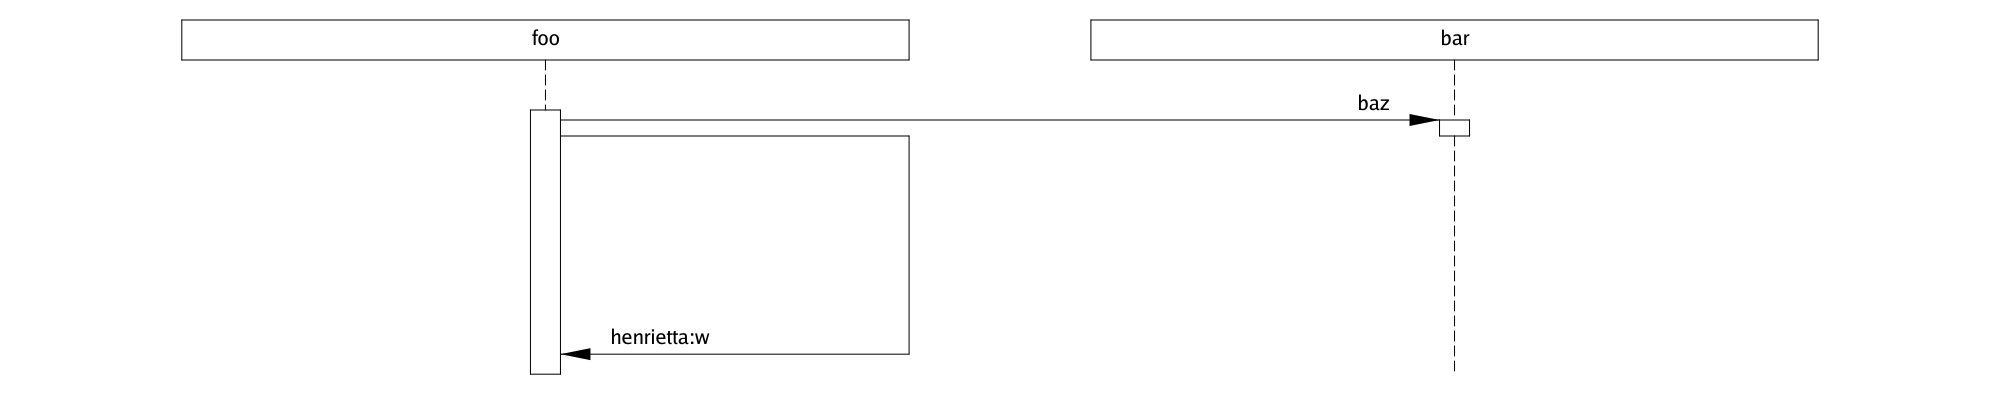
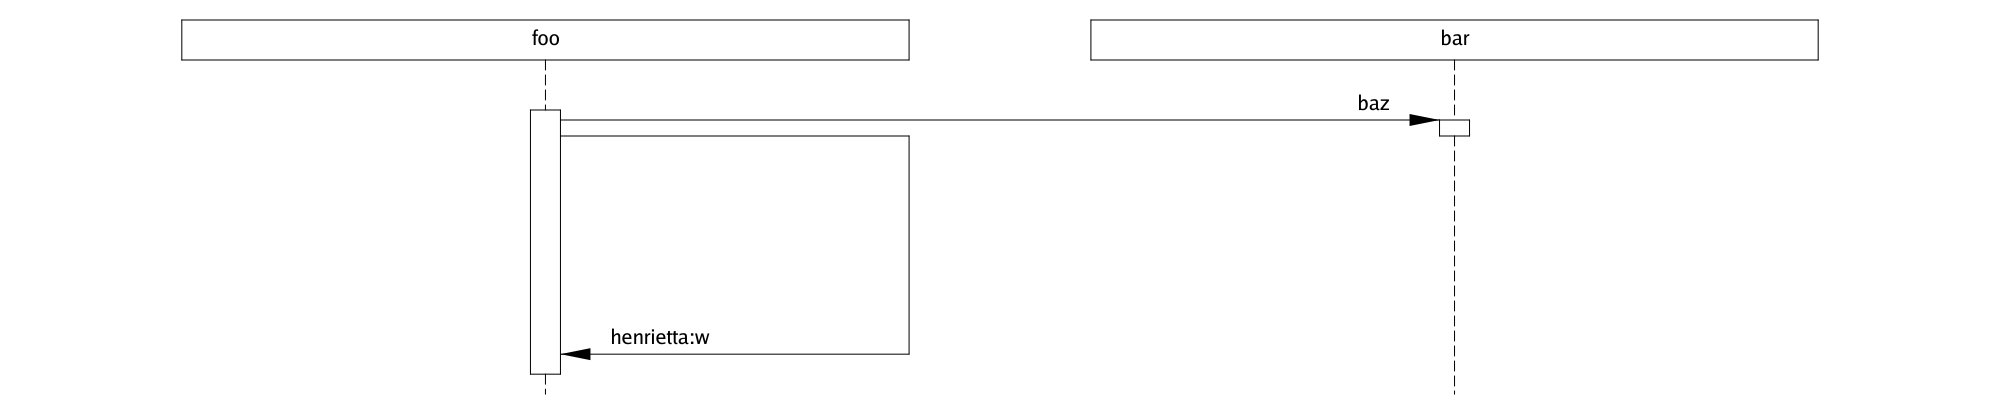
Make lifelines stick out beyond the bottom of activity boxes

diff --git a/sizer/sizer.go b/sizer/sizer.go
@@ -36,6 +36,7 @@ type Sizer struct {
 	DashLineDashGap            float64
 	SelfLoopHeight             float64
 	ActivityBoxVerticalOverlap float64
+    FinalizedActivityBoxesPadB float64
 }
 
 // NewSizer provides a Sizer structure that has been initialised
@@ -57,6 +58,7 @@ func NewSizer(diagramWidth int, fontHeight float64,
 	sizer.DashLineDashGap = dashLineDashGapK * fontHeight
 	sizer.SelfLoopHeight = sizer.Lifelines.SelfLoopWidth * selfLoopAspectRatio
 	sizer.ActivityBoxVerticalOverlap = activityBoxVerticalOverlapK * fontHeight
+    sizer.FinalizedActivityBoxesPadB = finalizedActivityBoxesPadB * fontHeight
 
 	return sizer
 }

diff --git a/diag/creator.go b/diag/creator.go
@@ -302,6 +302,7 @@ func (c *Creator) finalizeActivityBoxes() {
 	for lifeline := range c.activityBoxes {
 		c.finalizeActivityBox(lifeline, bottom)
 	}
+    c.tideMark = bottom + c.sizer.FinalizedActivityBoxesPadB
 }
 
 /*

diff --git a/sizer/settings.go b/sizer/settings.go
@@ -36,4 +36,5 @@ const (
 	// Lifeline activity boxes
 	activityBoxWidthK           = 1.5
 	activityBoxVerticalOverlapK = 0.5
+    finalizedActivityBoxesPadB = 1.0
 )
